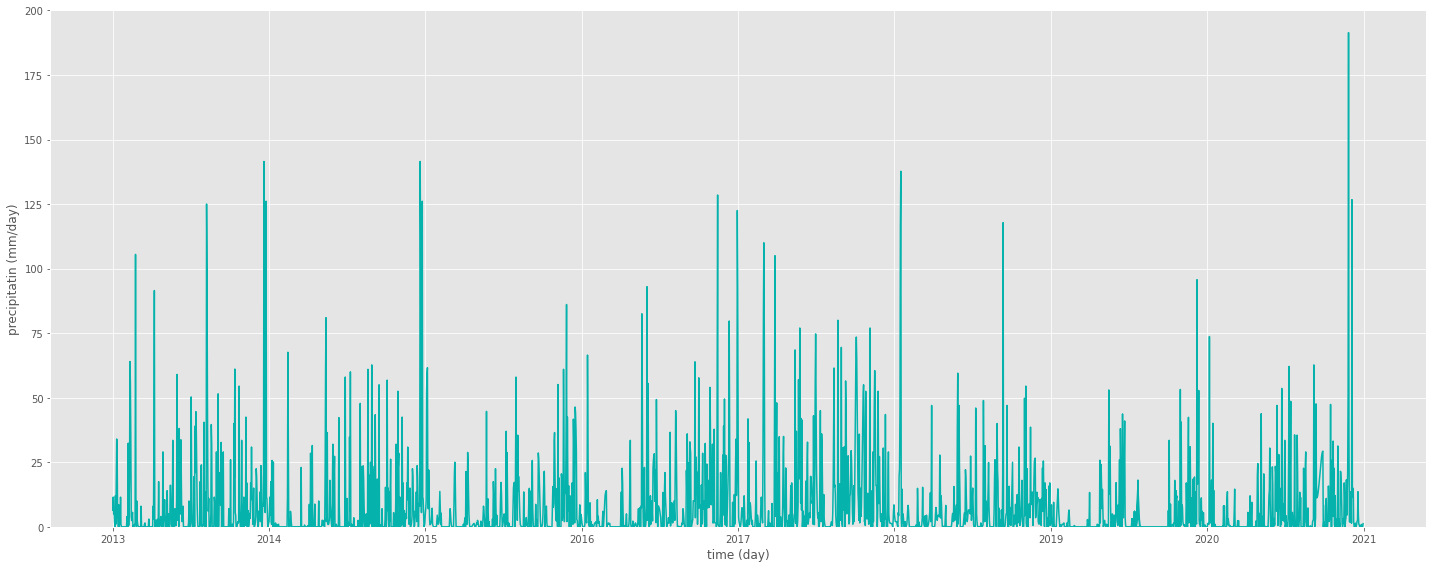
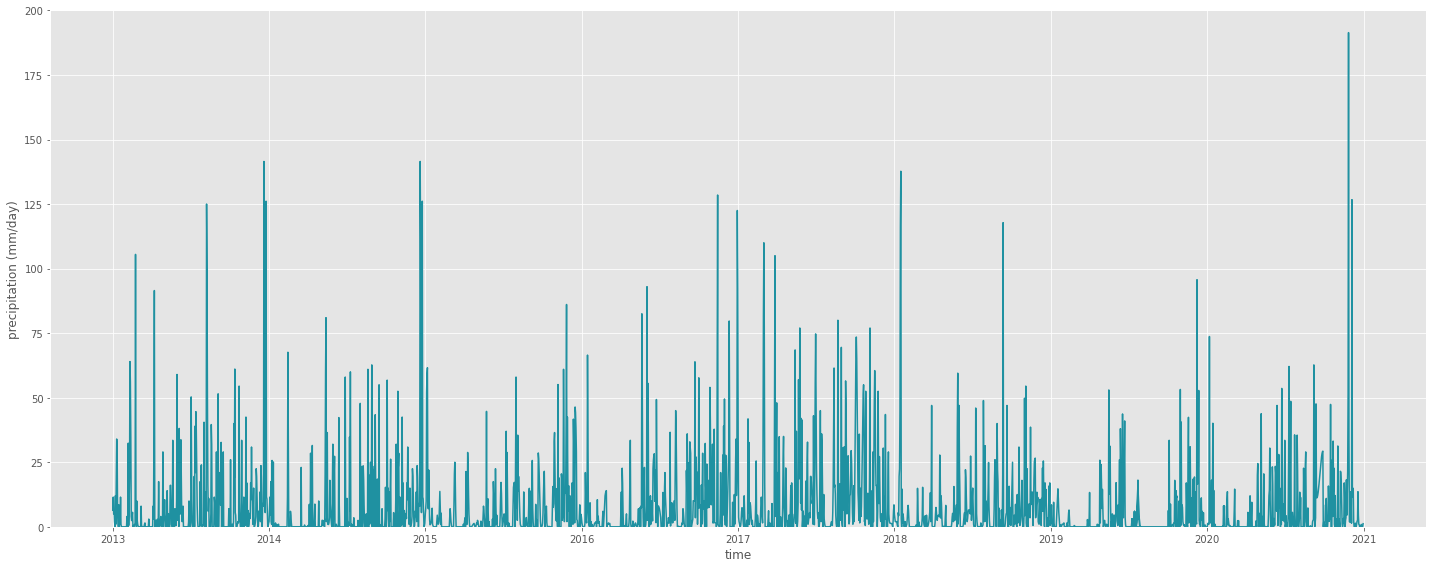
add fbprophet forecast

diff --git a/code/forecast.py b/code/forecast.py
@@ -1,0 +1,29 @@
+'''
+Empirical forecasting with FbProphet
+Sandy Herho <herho@umd.edu>
+
+05/27/2021
+'''
+import pandas as pd
+import matplotlib.pyplot as plt
+from fbprophet import Prophet
+from fbprophet.plot import add_changepoints_to_plot
+plt.style.use('ggplot')
+
+url = "https://raw.githubusercontent.com/sandyherho/natunaRainStatAnal/main/data/prInterp.csv"
+data = pd.read_csv(url)
+
+df = pd.DataFrame()
+df['ds'] = pd.to_datetime(data['date'])
+df['y'] = data['precipitation']
+
+m = Prophet()
+m.fit(df)
+
+future = m.make_future_dataframe(periods=3 * 30, freq='D')
+
+forecast = m.predict(future)
+
+fig = m.plot(forecast, xlabel='time', ylabel='precipitation (mm/day)',
+             figsize=(20, 8))
+a = add_changepoints_to_plot(fig.gca(), m, forecast)

diff --git a/code/interp.py b/code/interp.py
@@ -17,9 +17,9 @@ df = pd.read_csv('https://raw.githubusercontent.com/sandyherho/natunaRainStatAna
 pr = df['pr'].interpolate(method='pchip')
 t = pd.to_datetime(df['date'], dayfirst=True)
 
-plt.plot(t, pr, '#05b3ac');
-plt.ylabel('precipitatin (mm/day)');
-plt.xlabel('time (day)');
+plt.plot(t, pr, '#1f91a1');
+plt.ylabel('precipitation (mm/day)');
+plt.xlabel('time');
 plt.ylim(0, 200);
 plt.tight_layout();
-plt.savefig('fig2.png')
+plt.savefig('./figs/fig2.png')
